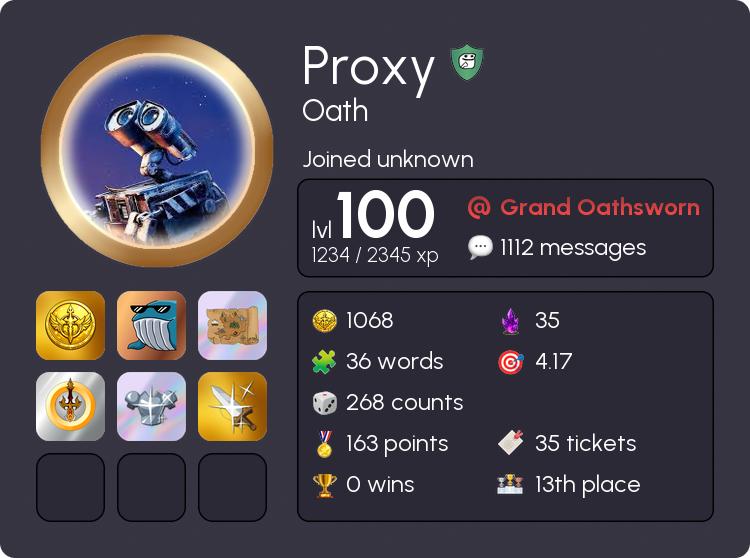
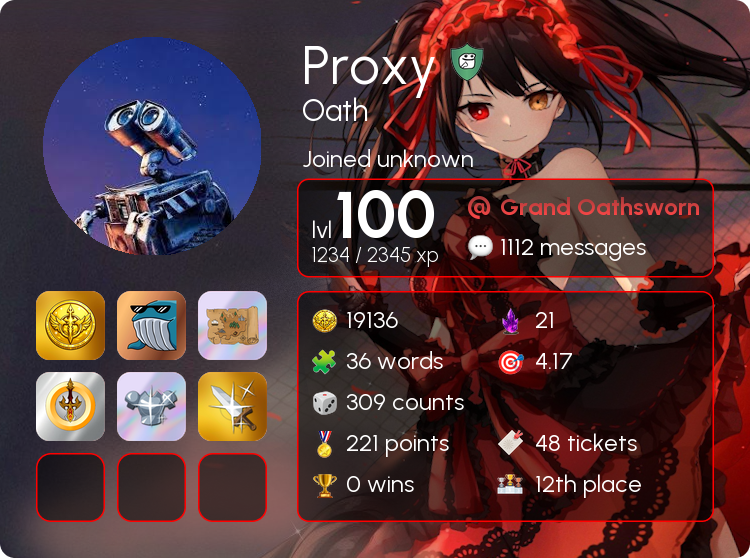
added smokedout card

diff --git a/user_profile/image_test.py b/user_profile/image_test.py
@@ -102,7 +102,7 @@ async def generate_test_card(
     border = data.get("border", {})
     card = data.get("card", {})
     gems = data.get("gems", 0)
-    bg = Image.open(ASSETS_DIR / f"default.png").convert("RGBA")
+    bg = Image.open(ASSETS_DIR / "sm.png").convert("RGBA")
     role = data.get("highlighted_role", "None")
 
     # if border:
@@ -118,8 +118,8 @@ async def generate_test_card(
     #    test_border = Image.open(ASSETS_DIR / "test_border.png").convert("RGBA")
     #    bg.paste(test_border, (0, 0), test_border)
 
-    potw_border = load_asset("gold_avatar.png", (234, 234))
-    bg.paste(potw_border, (40, 34), potw_border)
+    # potw_border = load_asset("gold_avatar.png", (234, 234))
+    # bg.paste(potw_border, (40, 34), potw_border)
 
     font_big = load_font("Urbanist-Regular.ttf", 54)
     font_bold = load_font("Urbanist-Bold.ttf", 66)
